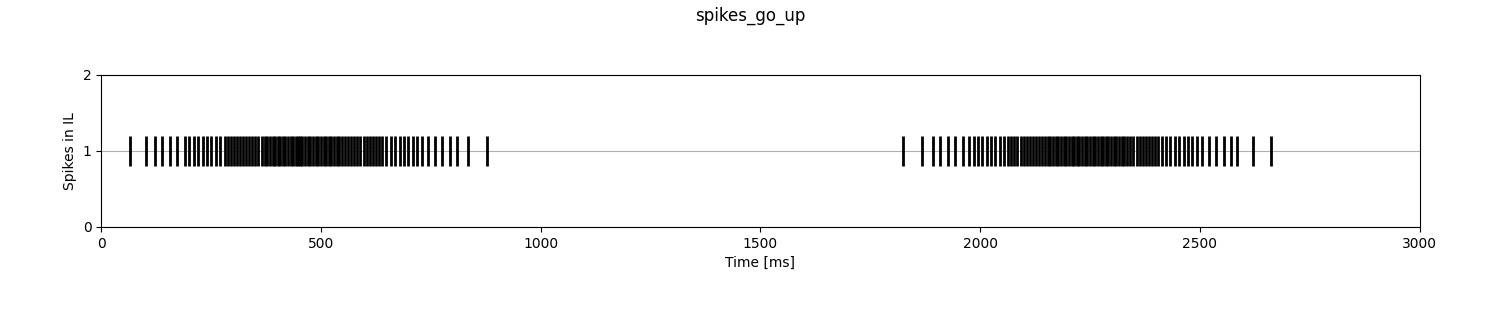
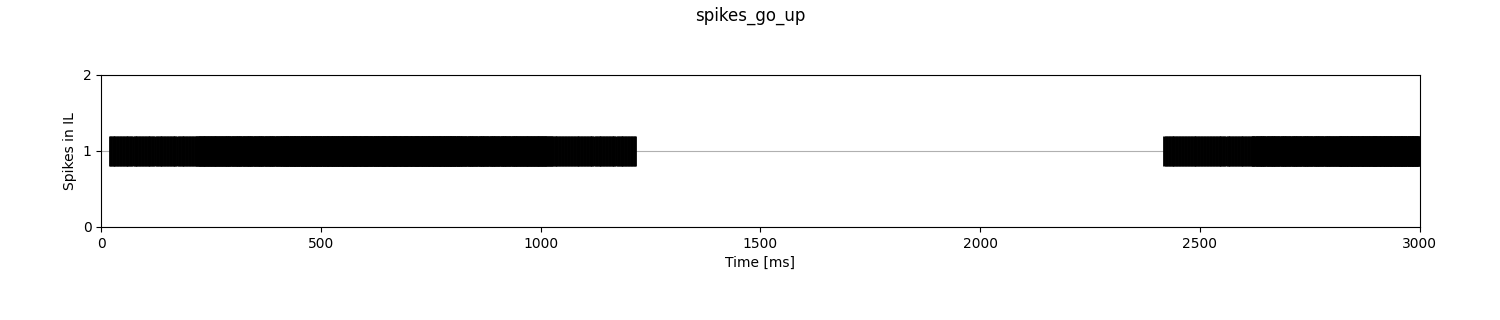
Before adding 'ball' events

Changed region(s): [[0.0613, 0.4062, 0.4293, 0.5312], [0.6133, 0.4062, 0.9507, 0.5312]]

diff --git a/experiments/closed_loop/integrator.py b/experiments/closed_loop/integrator.py
@@ -305,17 +305,14 @@ def run_spinnaker_sim():
             print(f"({x},{y}) : {conn[0]}\t-->\t{conn[1]} : w={conn[2]}")
 
 
-    cell_conn = p.FromListConnector(conn_list, safe=True)
-    
+    cell_conn = p.FromListConnector(conn_list, safe=True)   
+    # pdb.set_trace() 
     con_move = p.Projection(capture, motor_neurons, cell_conn, receptor_type='excitatory')
 
+        
     # Spike reception (from SpiNNaker to CPU)
-
     port_generator = get_port(14000)
     port = next(port_generator)
-
-
-        
     live_spikes_receiver = p.external_devices.SpynnakerLiveSpikesConnection(receive_labels=["motor_neurons"], local_port=port)
     _ = p.external_devices.activate_live_output_for(motor_neurons, database_notify_port_num=live_spikes_receiver.local_port)
     live_spikes_receiver.add_receive_callback("motor_neurons", receive_spikes_from_sim)
@@ -336,7 +333,7 @@ def run_spinnaker_sim():
     #         l = len(np.asarray(in_spikes.segments[0].spiketrains[h*WIDTH+w]))
     #         print(f"({w},{h})-->{l}")
 
-    w_array = np.array(con_move.get("weight", format="array"))
+    # w_array = np.array(con_move.get("weight", format="array"))
 
 
     # Let other processes know that spinnaker simulation has come to an ned

diff --git a/experiments/closed_loop/closed_loop_no_spif.py b/experiments/closed_loop/closed_loop_no_spif.py
@@ -20,11 +20,11 @@ from stimulator import produce_data
 ##############################################################################################################################################
 
 duration = 3
-l_px = 24
-w_px = int(l_px*3/4)
+l_px = 8
+w_px = 8+0*int(l_px*3/4)
 vx =  l_px/80
 vy = -w_px/160
-r_ball = int(3+w_px/48)
+r_ball = 0*int(3+w_px/48)
 mat, coor = produce_data(l_px, w_px, r_ball, vx, vy, duration)
 
 
@@ -45,7 +45,7 @@ cell_params = {'tau_m': 20.0,
                }
 
 w = 1.0
-w_fovea = 0.5
+w_fovea = 50
 
 
 ##############################################################################################################################################

diff --git a/experiments/closed_loop/ball.py b/experiments/closed_loop/ball.py
@@ -2,7 +2,7 @@ import numpy as np
 import time
 import math
 import os
-import cv2
+# import cv2
 import matplotlib.pyplot as plt
 import sys,tty,termios
 import pdb
@@ -156,8 +156,8 @@ if __name__ == "__main__":
             ball_update = 0      
             bball.update_c()
             print("{:.1f} %".format(np.round(t/(duration*1000),3)*100))
-            cv2.imshow("Pixel Space", mat[:,:,t]*255)
-            cv2.waitKey(1) 
+            # cv2.imshow("Pixel Space", mat[:,:,t]*255)
+            # cv2.waitKey(1) 
 
         ball_update += 1
         LED_update += 1
